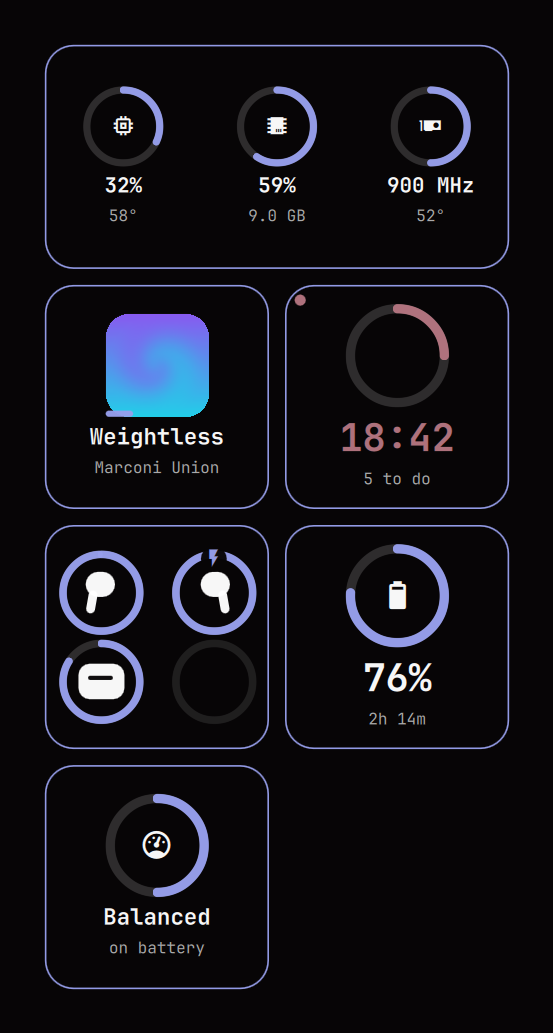
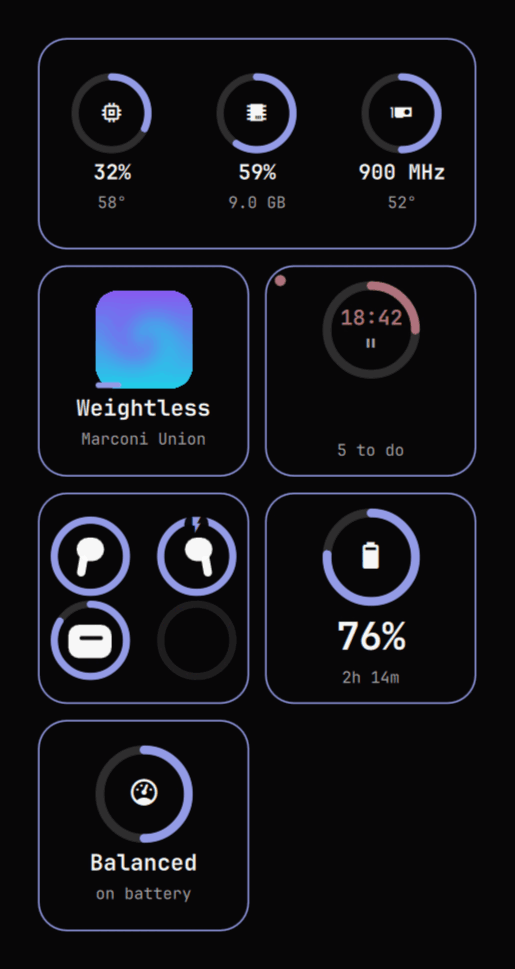
Fit the overlay to the screen, keep saved settings on startup, and document it all
The overlay gave itself one column per card, so six full cards came to 1658px
on a 1600px display and the outermost two were drawn clipped at the screen
edges. It now takes as many columns as the screen holds and wraps the rest.

A freshly started shell also ignored the saved layout: the bar host injects a
widget's settings after the widget is constructed, so the first push carries
nothing, and storing that empty object pinned the defaults until some setting
was written. An empty push is no longer an answer.

The README is rebuilt around screenshots from a running desktop — the cards in
place, the overlay, compact tiles, the to-do card and the settings popup folded
and open — with a feature summary and the full omarchy plugin lifecycle.

diff --git a/model/Layout.js b/model/Layout.js
@@ -65,6 +65,22 @@ function tileLabel(id) {
   return LABELS[String(id || "")] || ""
 }
 
+// How many cards of `cardWidth` fit side by side in `available` pixels, given
+// `spacing` between them. The overlay has the whole screen and wants one row,
+// but six full cards are wider than a 1600px display and a column count that
+// does not fit is drawn clipped at both edges rather than wrapped.
+//
+// Returns at least 1: one clipped card still beats none, and a surface that has
+// not been laid out yet reports a width of 0.
+function columnsThatFit(available, cardWidth, spacing, count) {
+  var total = Math.max(1, Number(count) || 1)
+  var width = Number(cardWidth)
+  var gap = Number(spacing) || 0
+  if (!(width > 0) || !(Number(available) > 0)) return total
+  var fits = Math.floor((Number(available) + gap) / (width + gap))
+  return Math.max(1, Math.min(total, fits))
+}
+
 // Which screen edges the desktop window anchors to. Anchoring to one edge only
 // is what makes layer-shell centre the surface along it, so the "-center" and
 // "middle-" positions are expressed by leaving the opposite pair unset rather
@@ -90,6 +106,7 @@ if (typeof module !== "undefined") {
     visibleCards: visibleCards,
     tileSpan: tileSpan,
     tileLabel: tileLabel,
+    columnsThatFit: columnsThatFit,
     anchorsFor: anchorsFor
   }
 }

diff --git a/tests/layout.test.js b/tests/layout.test.js
@@ -85,4 +85,14 @@ t.deep(Pack.move(["a", "b", "c"], 2, 0), ["c", "a", "b"], "in either direction")
 t.deep(Pack.move(["a", "b", "c"], 1, 1), ["a", "b", "c"], "moving onto itself changes nothing")
 t.deep(Pack.move(["a", "b", "c"], 9, 0), ["a", "b", "c"], "an index that is not there changes nothing")
 
+// The overlay wants one row, but only as many columns as the screen can hold.
+t.eq(Layout.columnsThatFit(1544, 268, 10, 6), 5,
+  "six full cards do not fit a 1600px screen; five do")
+t.eq(Layout.columnsThatFit(3784, 268, 10, 6), 6, "a wide screen takes the whole row")
+t.eq(Layout.columnsThatFit(0, 268, 10, 6), 6,
+  "a surface that has not been laid out yet falls back to one row")
+t.eq(Layout.columnsThatFit(100, 268, 10, 6), 1,
+  "a screen narrower than one card still draws one")
+t.eq(Layout.columnsThatFit(1544, 268, 10, 2), 2, "never more columns than there are cards")
+
 process.exit(t.report("layout"))

diff --git a/Service.qml b/Service.qml
@@ -39,8 +39,16 @@ Item {
 
   // Called by the bar widget whenever its injected settings change. Idempotent,
   // because one bar widget instance exists per monitor and each one pushes.
+  //
+  // An empty push is not an answer. The bar host injects `settings` after the
+  // widget is constructed, so the widget's first push — the one from
+  // Component.onCompleted — can carry nothing. Storing that pinned the defaults
+  // and left a freshly started shell drawing one column over the saved two,
+  // until some setting was written and a real push arrived.
   function applySettings(next) {
-    pushedSettings = next === undefined || next === null ? ({}) : next
+    if (next === undefined || next === null) return
+    if (Object.keys(next).length === 0) return
+    pushedSettings = next
   }
 
   // Set by the surfaces that are not the desktop layer, so a closed overlay and

diff --git a/OverlaySurface.qml b/OverlaySurface.qml
@@ -39,10 +39,17 @@ Item {
     hasMedia: !!(media && media.hasMedia)
   }).length
 
+  // One row when the screen is wide enough for one, wrapped into further rows
+  // when it is not. `surface.width` is the whole screen, less a margin on each
+  // side so the outermost cards do not sit against the bezel.
+  readonly property int fittingColumns: Layout.columnsThatFit(
+    surface.width - 2 * baseSettings.marginX,
+    baseSettings.cardWidth, baseSettings.spacing, cardCount)
+
   readonly property var overlayConfig: {
     var merged = ({})
     for (var key in baseSettings) merged[key] = baseSettings[key]
-    merged.columns = Math.max(1, Math.min(6, cardCount))
+    merged.columns = fittingColumns
     // The overlay has the whole screen, so it always shows the full cards.
     merged.compact = false
     return merged

diff --git a/README.md b/README.md
@@ -8,13 +8,47 @@
 </p>
 
 <p align="center">
-  <img src="preview.png" alt="Four OmaWidgets cards on the Omarchy desktop" width="360">
+  <img src="docs/desktop.png" alt="Six OmaWidgets cards on the Omarchy desktop" width="820">
 </p>
 
 <p align="center">
   <em>Every colour, border, corner radius and type size comes from your active Omarchy theme.<br>
   Switch themes and the cards switch with the rest of the shell, in the same frame.</em>
 </p>
+
+<p align="center">
+  <img src="docs/theme.png" alt="The same cards under a different Omarchy theme" width="380">
+</p>
+
+<p align="center">
+  <em>The same cards, one theme switch later.</em>
+</p>
+
+```bash
+omarchy plugin add https://github.com/fabandrade88/OmaWidgets.git
+omarchy plugin enable io.github.fabandrade88.omawidgets --section right
+```
+
+<p align="center">
+  <em>Requires Omarchy 4.0 (Quattro) or newer. Full instructions, and how to remove it,
+  are under <a href="#install">Install</a>.</em>
+</p>
+
+## What you get
+
+| | |
+|---|---|
+| **Performance** | CPU load, package temperature, per-thread bars and recent history; memory and swap; GPU load, temperature and clock, with the honest answer when a driver does not expose one |
+| **Now playing** | Any MPRIS player, with cover art and working transport — previous, play/pause, next — and buttons that dim when the source cannot do them |
+| **To-do + Pomodoro** | A focus clock with configurable rounds and breaks, an alarm when a phase ends, and a list whose colours say how close each deadline is |
+| **AirPods** | Per-pod and case battery, charging and in-ear state, listening mode and case lid, read from the librepods daemon |
+| **Battery** | Level, what it is doing, how long that leaves, plus draw rate, health and cycle count |
+| **Power profile** | Saver, Balanced and Performance in one click, through Omarchy's own per-power-source setting |
+| **Two surfaces** | Cards on the desktop under your windows, and the same cards on a summoned full-screen overlay |
+| **Compact mode** | The whole set as small rounded tiles, one reading each |
+| **Arranging** | Click to select, drag to reorder, hover for an X to hide — or do all three from a keybind |
+| **Themed** | Every colour, border, corner and type size from the active Omarchy theme |
+| **Idle-free** | Nothing on screen means no timers: measurably indistinguishable from not installing it |
 
 ## Two ways to read them
 
@@ -60,6 +94,10 @@ needs. The summoned overlay always shows the full cards: it has the whole
 screen, so there is nothing to compact.
 
 ## The cards
+
+<p align="center">
+  <img src="docs/cards.png" alt="All six cards: performance, to-do, power profile, battery, now playing and AirPods" width="560">
+</p>
 
 ### Performance
 
@@ -125,6 +163,10 @@ Urgency is information, and information that changed meaning with the wallpaper
 would be a trap. The words next to the stripe say the same thing, so the colour
 is never the only signal. The card's own accent follows the most pressing
 deadline in it, so a glance at the desktop says whether anything needs you.
+
+<p align="center">
+  <img src="docs/todo.png" alt="The to-do card with a running Pomodoro round, and the compact tile beside it" width="560">
+</p>
 
 Done to-dos can be archived one at a time or all at once, and brought back from
 the archive later. The list lives in
@@ -210,18 +252,38 @@ you plug and unplug.
 ## Install
 
 ```bash
-omarchy plugin add https://github.com/fabandrade88/omawidgets.git
+omarchy plugin add https://github.com/fabandrade88/OmaWidgets.git
 omarchy plugin enable io.github.fabandrade88.omawidgets --section right
 ```
 
 Plugins land disabled so you can read the code before you run it. That is worth
 doing — see [Running someone else's code](#running-someone-elses-code).
 
+`omarchy plugin add` clones it into `~/.config/omarchy/plugins/`, and
+`enable` adds the bar icon and starts the service. `--section right` puts the
+icon on the right of your bar; `left` and `center` work the same way.
+
+Updating and switching it off again:
+
+```bash
+omarchy plugin update io.github.fabandrade88.omawidgets    # pull the latest release
+omarchy plugin disable io.github.fabandrade88.omawidgets   # keep it installed, stop running it
+omarchy plugin list                                        # what is installed, and what is on
+```
+
 To remove it completely:
 
 ```bash
 omarchy plugin remove io.github.fabandrade88.omawidgets
 ```
+
+Removal takes the plugin folder and its bar entry with it. The to-do list is
+yours and stays behind, in `$XDG_STATE_HOME/omawidgets/todos.json`.
+
+> **`disable` forgets your settings.** Omarchy keeps a widget's settings on its
+> bar entry, and disabling removes that entry, so enabling again starts from the
+> defaults. To hide the cards without losing how you set them up, right-click
+> the bar icon — or use `omarchy-shell omawidgets-bar toggleDesktop`.
 
 ## Using it
 
@@ -237,7 +299,7 @@ cards are hidden.
 | **Escape** | Close the popup or the overlay |
 
 <p align="center">
-  <img src="docs/settings-popup.png" alt="The settings popup" width="280">
+  <img src="docs/settings.png" alt="The settings popup, folded and with every section open" width="720">
 </p>
 
 The popup holds everything: the desktop toggle, compact mode, per-core bars, the
@@ -337,7 +399,7 @@ typo costs you one setting rather than the widget.
 | `todoRows` | `5` | 1–20 rows listed on the card; the rest are summarised as a count |
 | `dateFormat` | `dd-MM-yyyy` | Also `dd/MM/yyyy`, `yyyy-MM-dd`, `MM/dd/yyyy` |
 | `timeFormat` | `24h` | Or `12h` |
-| `columns` | `1`, or `2` in compact | 1–6 on the desktop. Widgets are packed shortest-first, so a short one never leaves a hole under it, and the compact Performance tile spans two columns. The overlay always spreads them across one row |
+| `columns` | `1`, or `2` in compact | 1–6 on the desktop. Widgets are packed shortest-first, so a short one never leaves a hole under it, and the compact Performance tile spans two columns. The overlay ignores this and fits as many as the screen holds, wrapping the rest onto a second row |
 | `cards` order | — | Also the order on the desktop. Dragging a widget rewrites it |
 | `cardWidth` | `268` | 180–520 pixels |
 | `spacing` | `10` | 0–48 pixels between cards |
@@ -482,8 +544,8 @@ once per session to find where your sensors live. It accepts no input, pins
 ## Hacking on it
 
 ```bash
-git clone https://github.com/fabandrade88/omawidgets.git
-cd omawidgets
+git clone https://github.com/fabandrade88/OmaWidgets.git
+cd OmaWidgets
 ./tests/run.sh              # manifest, model, QML, and the probe on this machine
 ./scripts/omawidgets-dev-install
 omarchy plugin enable io.github.fabandrade88.omawidgets --section right

diff --git a/CHANGELOG.md b/CHANGELOG.md
@@ -4,6 +4,29 @@ All notable changes to this plugin are recorded here. The format follows
 [Keep a Changelog](https://keepachangelog.com/en/1.1.0/), and the version
 numbers are the ones in `manifest.json`.
 
+## [1.7.1] — 2026-09-21
+
+### Fixed
+
+- **The overlay drew its row wider than the screen.** It set one column per
+  card, so six full cards came to 1658px on a 1600px display and the outermost
+  two were clipped at the edges. It now takes as many columns as the screen
+  actually holds and wraps the rest onto a second row.
+- **A freshly started shell ignored the saved layout.** The bar host injects a
+  widget's settings after the widget is constructed, so the first push from
+  `Component.onCompleted` can carry nothing — and that empty object was stored
+  as though it were an answer, pinning the defaults until something wrote a
+  setting. An empty push is now ignored, and the host's own config snapshot
+  keeps answering until real settings arrive.
+
+### Documentation
+
+- README rewritten around screenshots taken on a running Omarchy desktop: the
+  cards in place, the summoned overlay, compact tiles, the to-do card, and the
+  settings popup folded and open. Adds a feature summary, the full
+  `omarchy plugin` lifecycle, and a note that `disable` drops a widget's
+  settings with its bar entry.
+
 ## [1.7.0] — 2026-09-21
 
 ### Security
